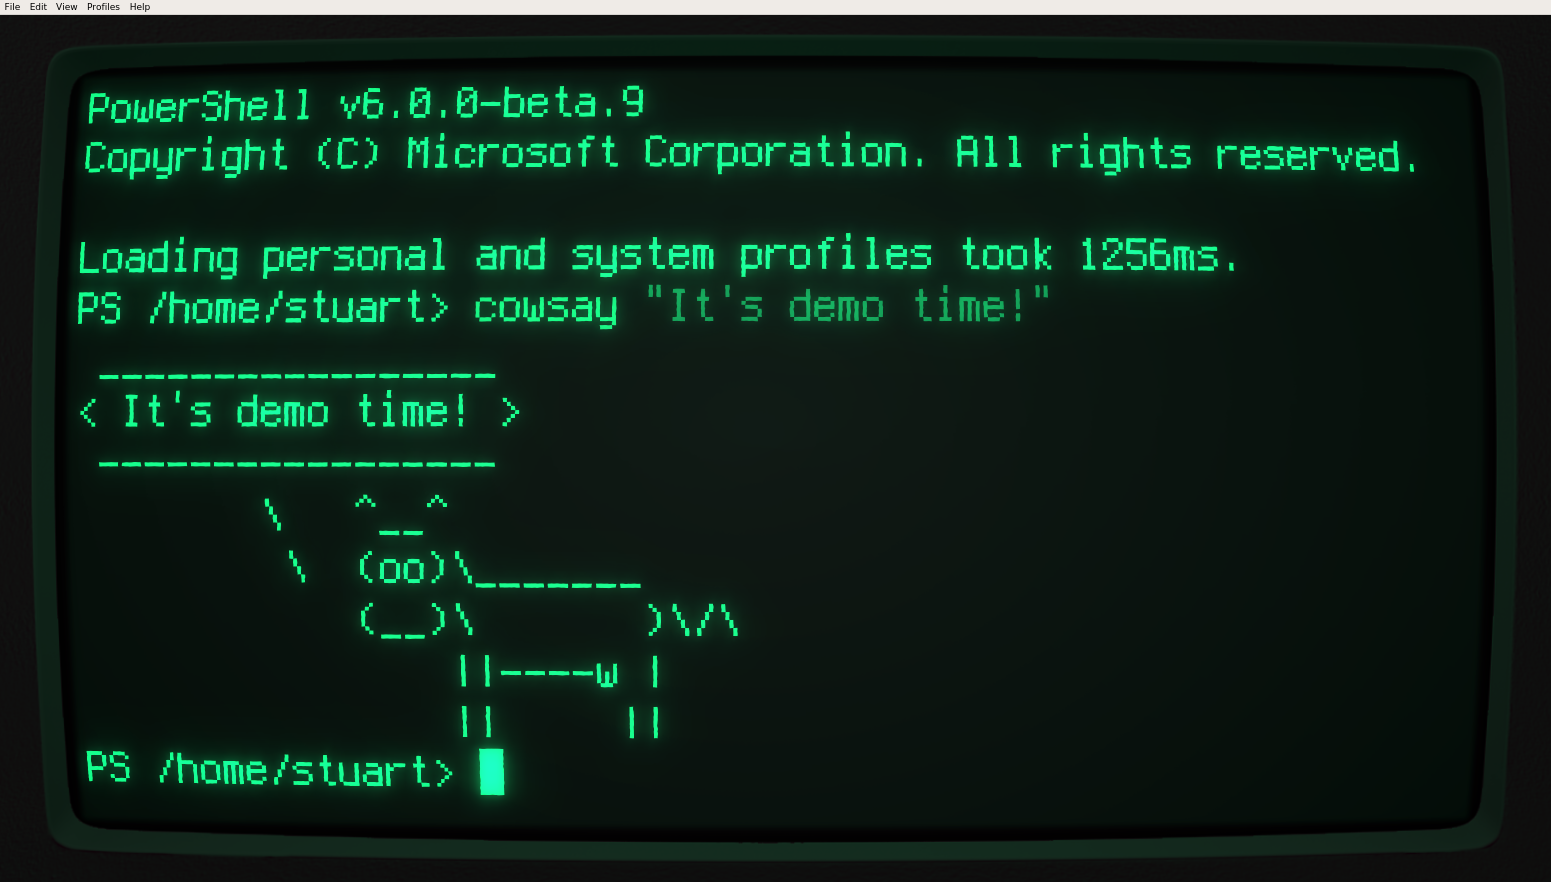
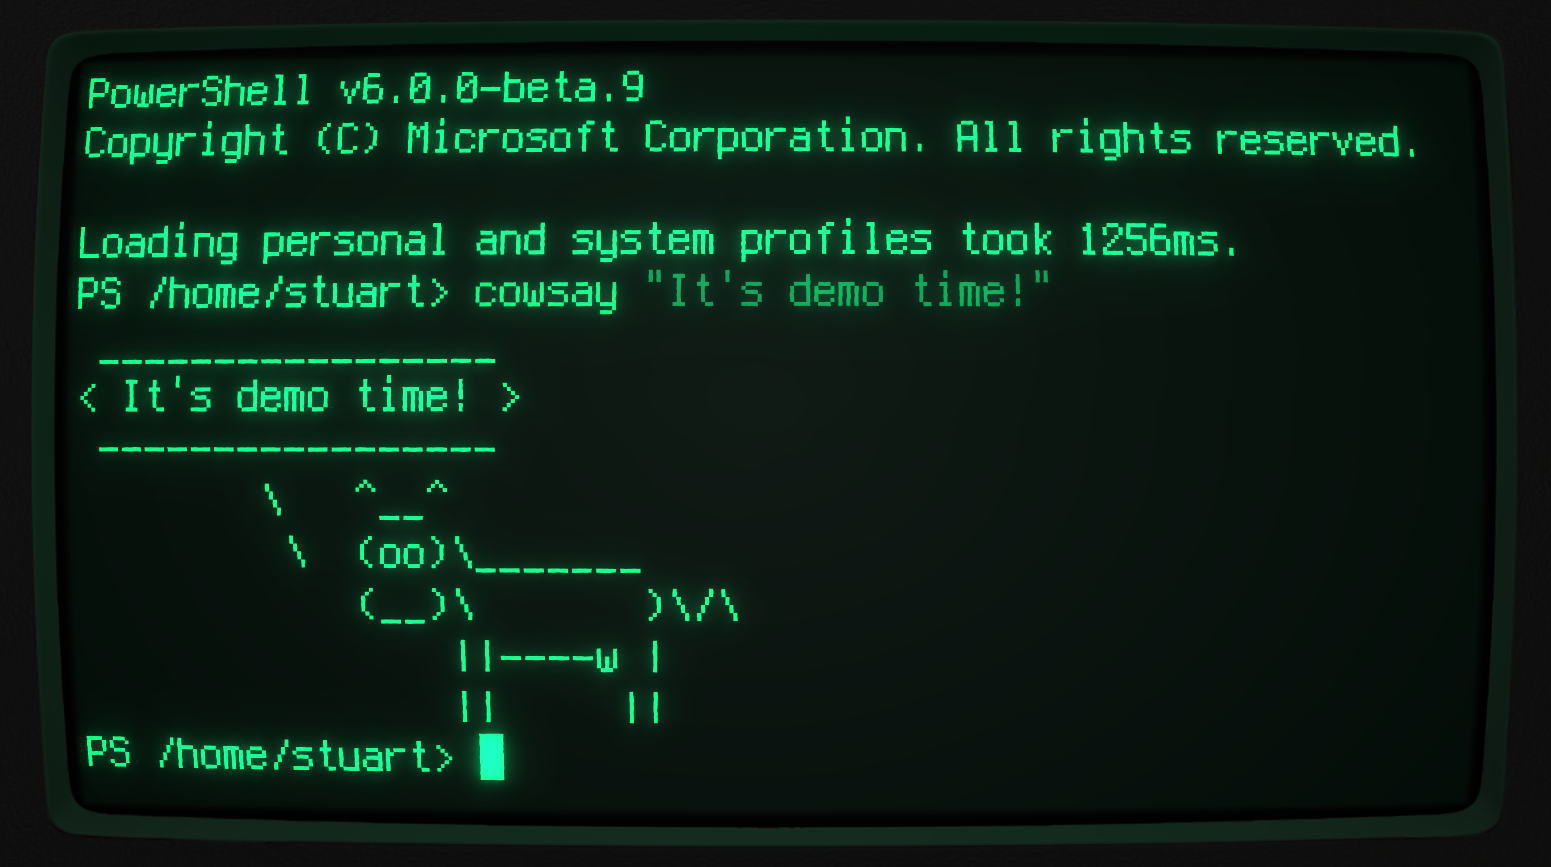
Add demo image

diff --git a/index.html b/index.html
@@ -509,8 +509,11 @@ static string Format(System.IFormatProvider provider, string format, Params Syst
 					</aside>
 				</section>
 			</section>
+			<section style="background-color: #111211;margin-left:-200px;padding-left:200px;padding-right:200px">
+				<img src="demotime2-ps-cowsay2-cut.png" alt="Demo time" style="background-color: #111211;border:none;vertical-align: middle">
+			</section>
 			<section class="left" data-menu-title="Outro">
-				<h1>By the way:</h1>
+				<h1>Thanks!</h1>
 				<ul class="x-small" class="powershell">
 					<li>Slides:
 						<a href="https://github.com/stuartleeks/pwsh-lightning">github.com/stuartleeks/pwsh-lightning</a>
